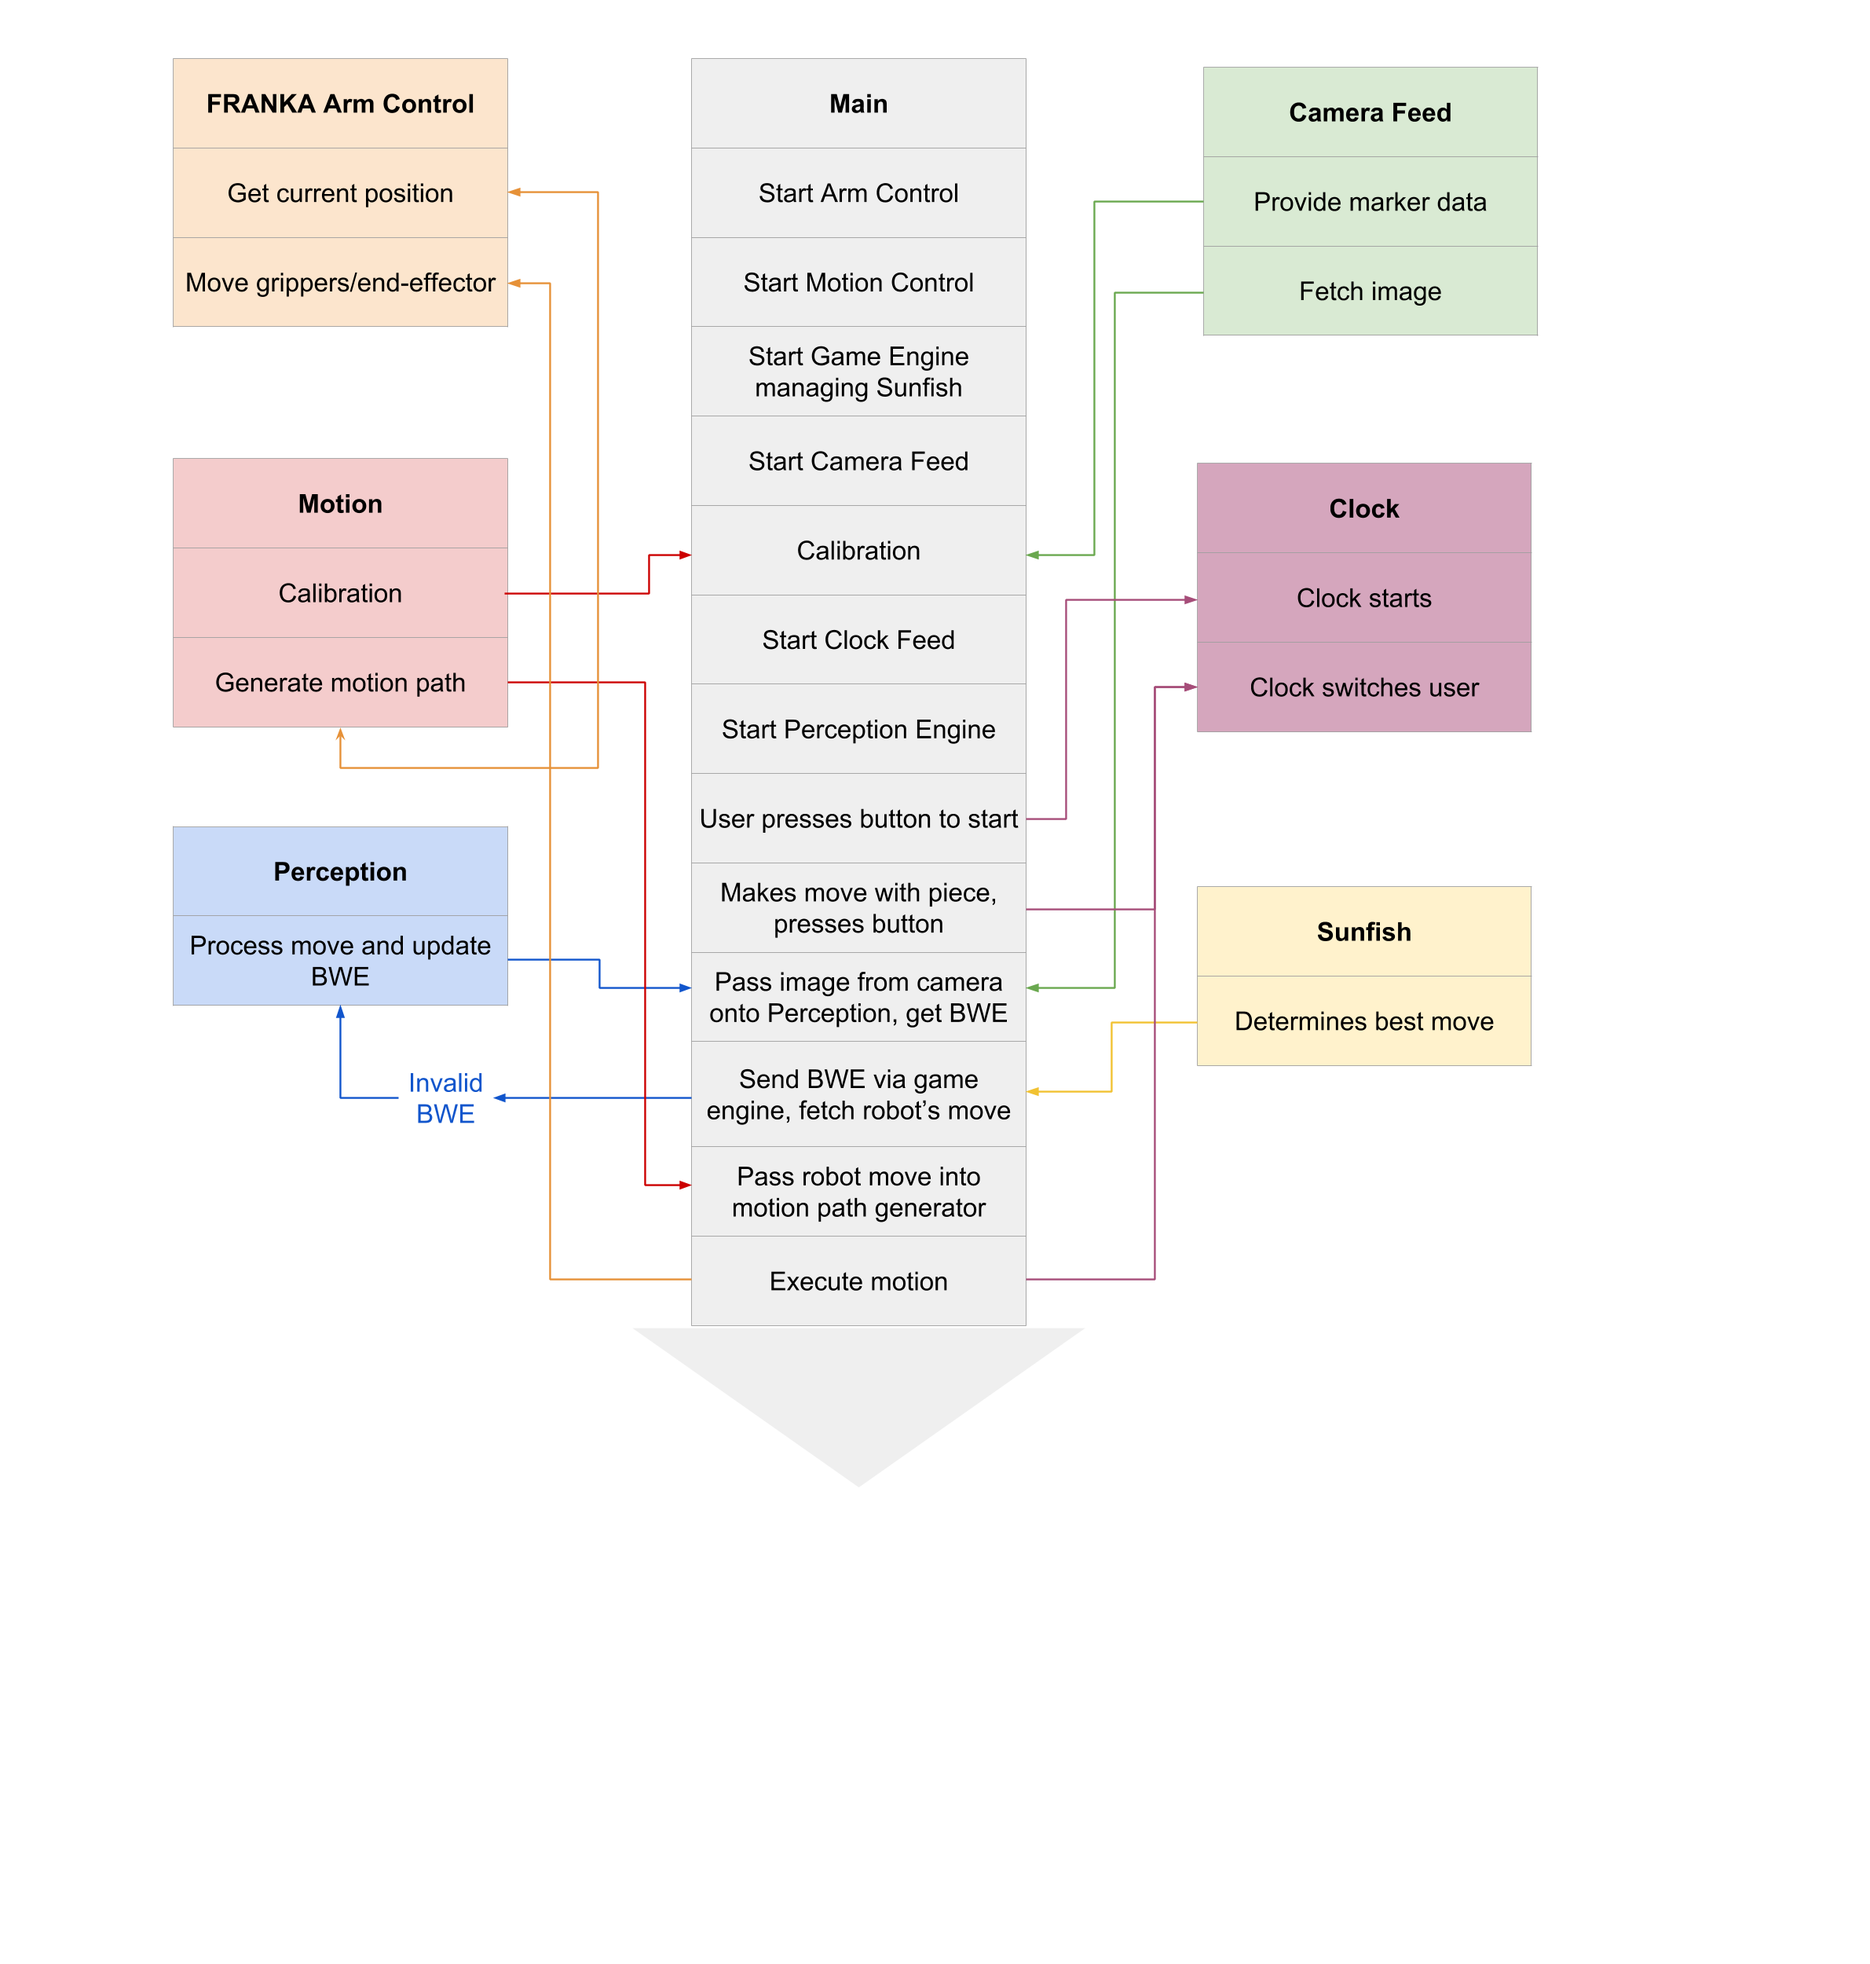
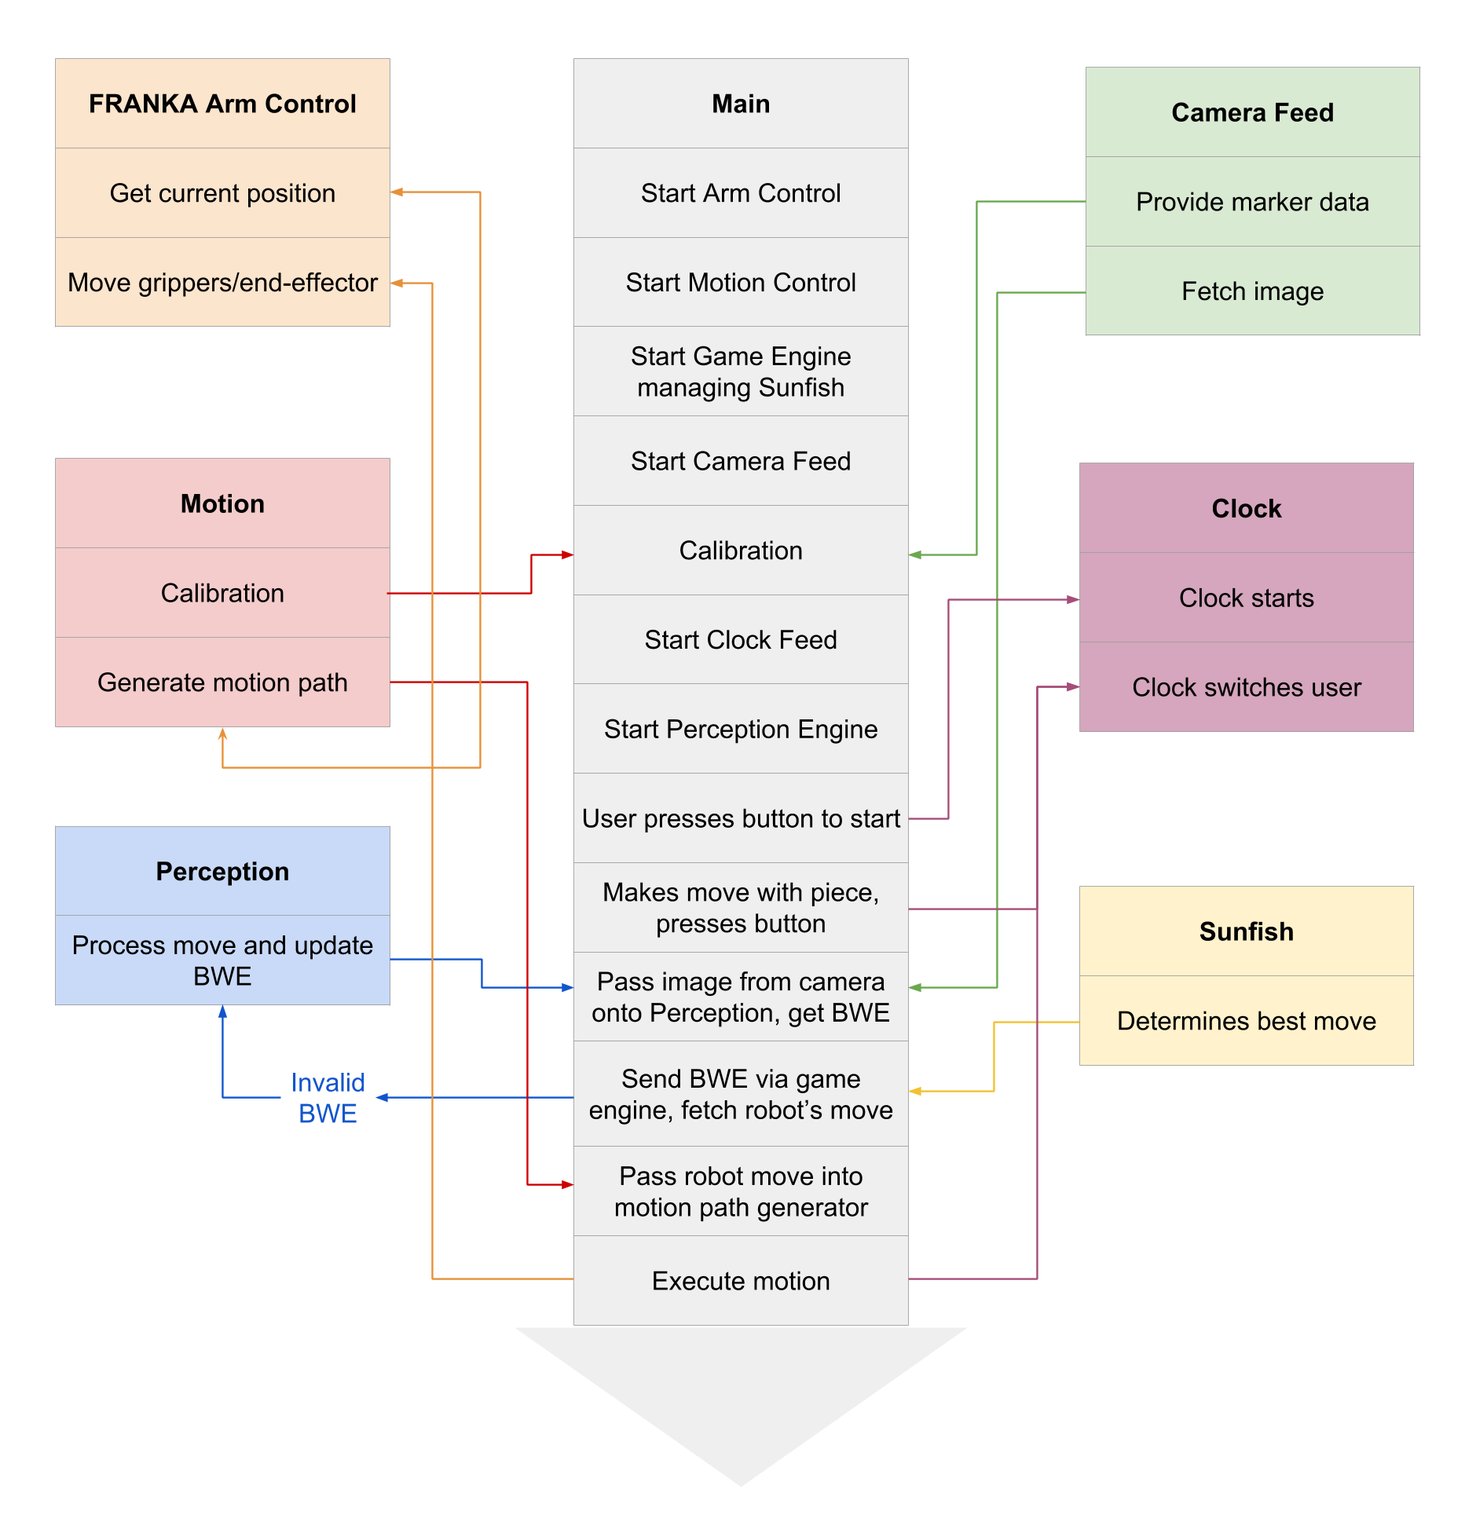
update controller doc image

diff --git a/docs/source/controller.rst b/docs/source/controller.rst
@@ -2,7 +2,7 @@
 Controller
 **********
 
-The controller interfaces the different modules and in this way ensures the flow of the chess game. It handles the whole process from setting up the game and calibrating FRANKA through to to playing the actual game. The board is empty when main.py is started. The user is subsequently required to populate the board and the game is started. After having made a move, the user presses a keyboard button to trigger the chess clock. The move is detected and passed to Sunfish, which replies with the optimal next move. A motion plan for the move is generated and executed by the robot. 
+The controller interfaces the different modules and in this way ensures the flow of the chess game. It handles the whole process from setting up the game and calibrating FRANKA through to to playing the actual game. The board is empty when main.py is started. The user is subsequently required to populate the board and the game is started. After having made a move, the user presses a keyboard button to trigger the chess clock. The move is detected and passed to Sunfish, which replies with the optimal next move. A motion plan for the move is generated and executed by the robot.
 
 .. Note::
  Automatic calibration and the chess clock integration were not finished
@@ -12,7 +12,6 @@ Main.py File
 
 .. figure:: _static/system_diagram_2.png
     :align: center
-    :figwidth: 50 em
     :figclass: align-center
 
 Below is the specification for the modules of the Chess Project Python Program. This is to ensure that each module fulfills its function and that the overall goal of the project is achieved. Each module can then seperately be improved and updated, assuming compliance with this specification.
